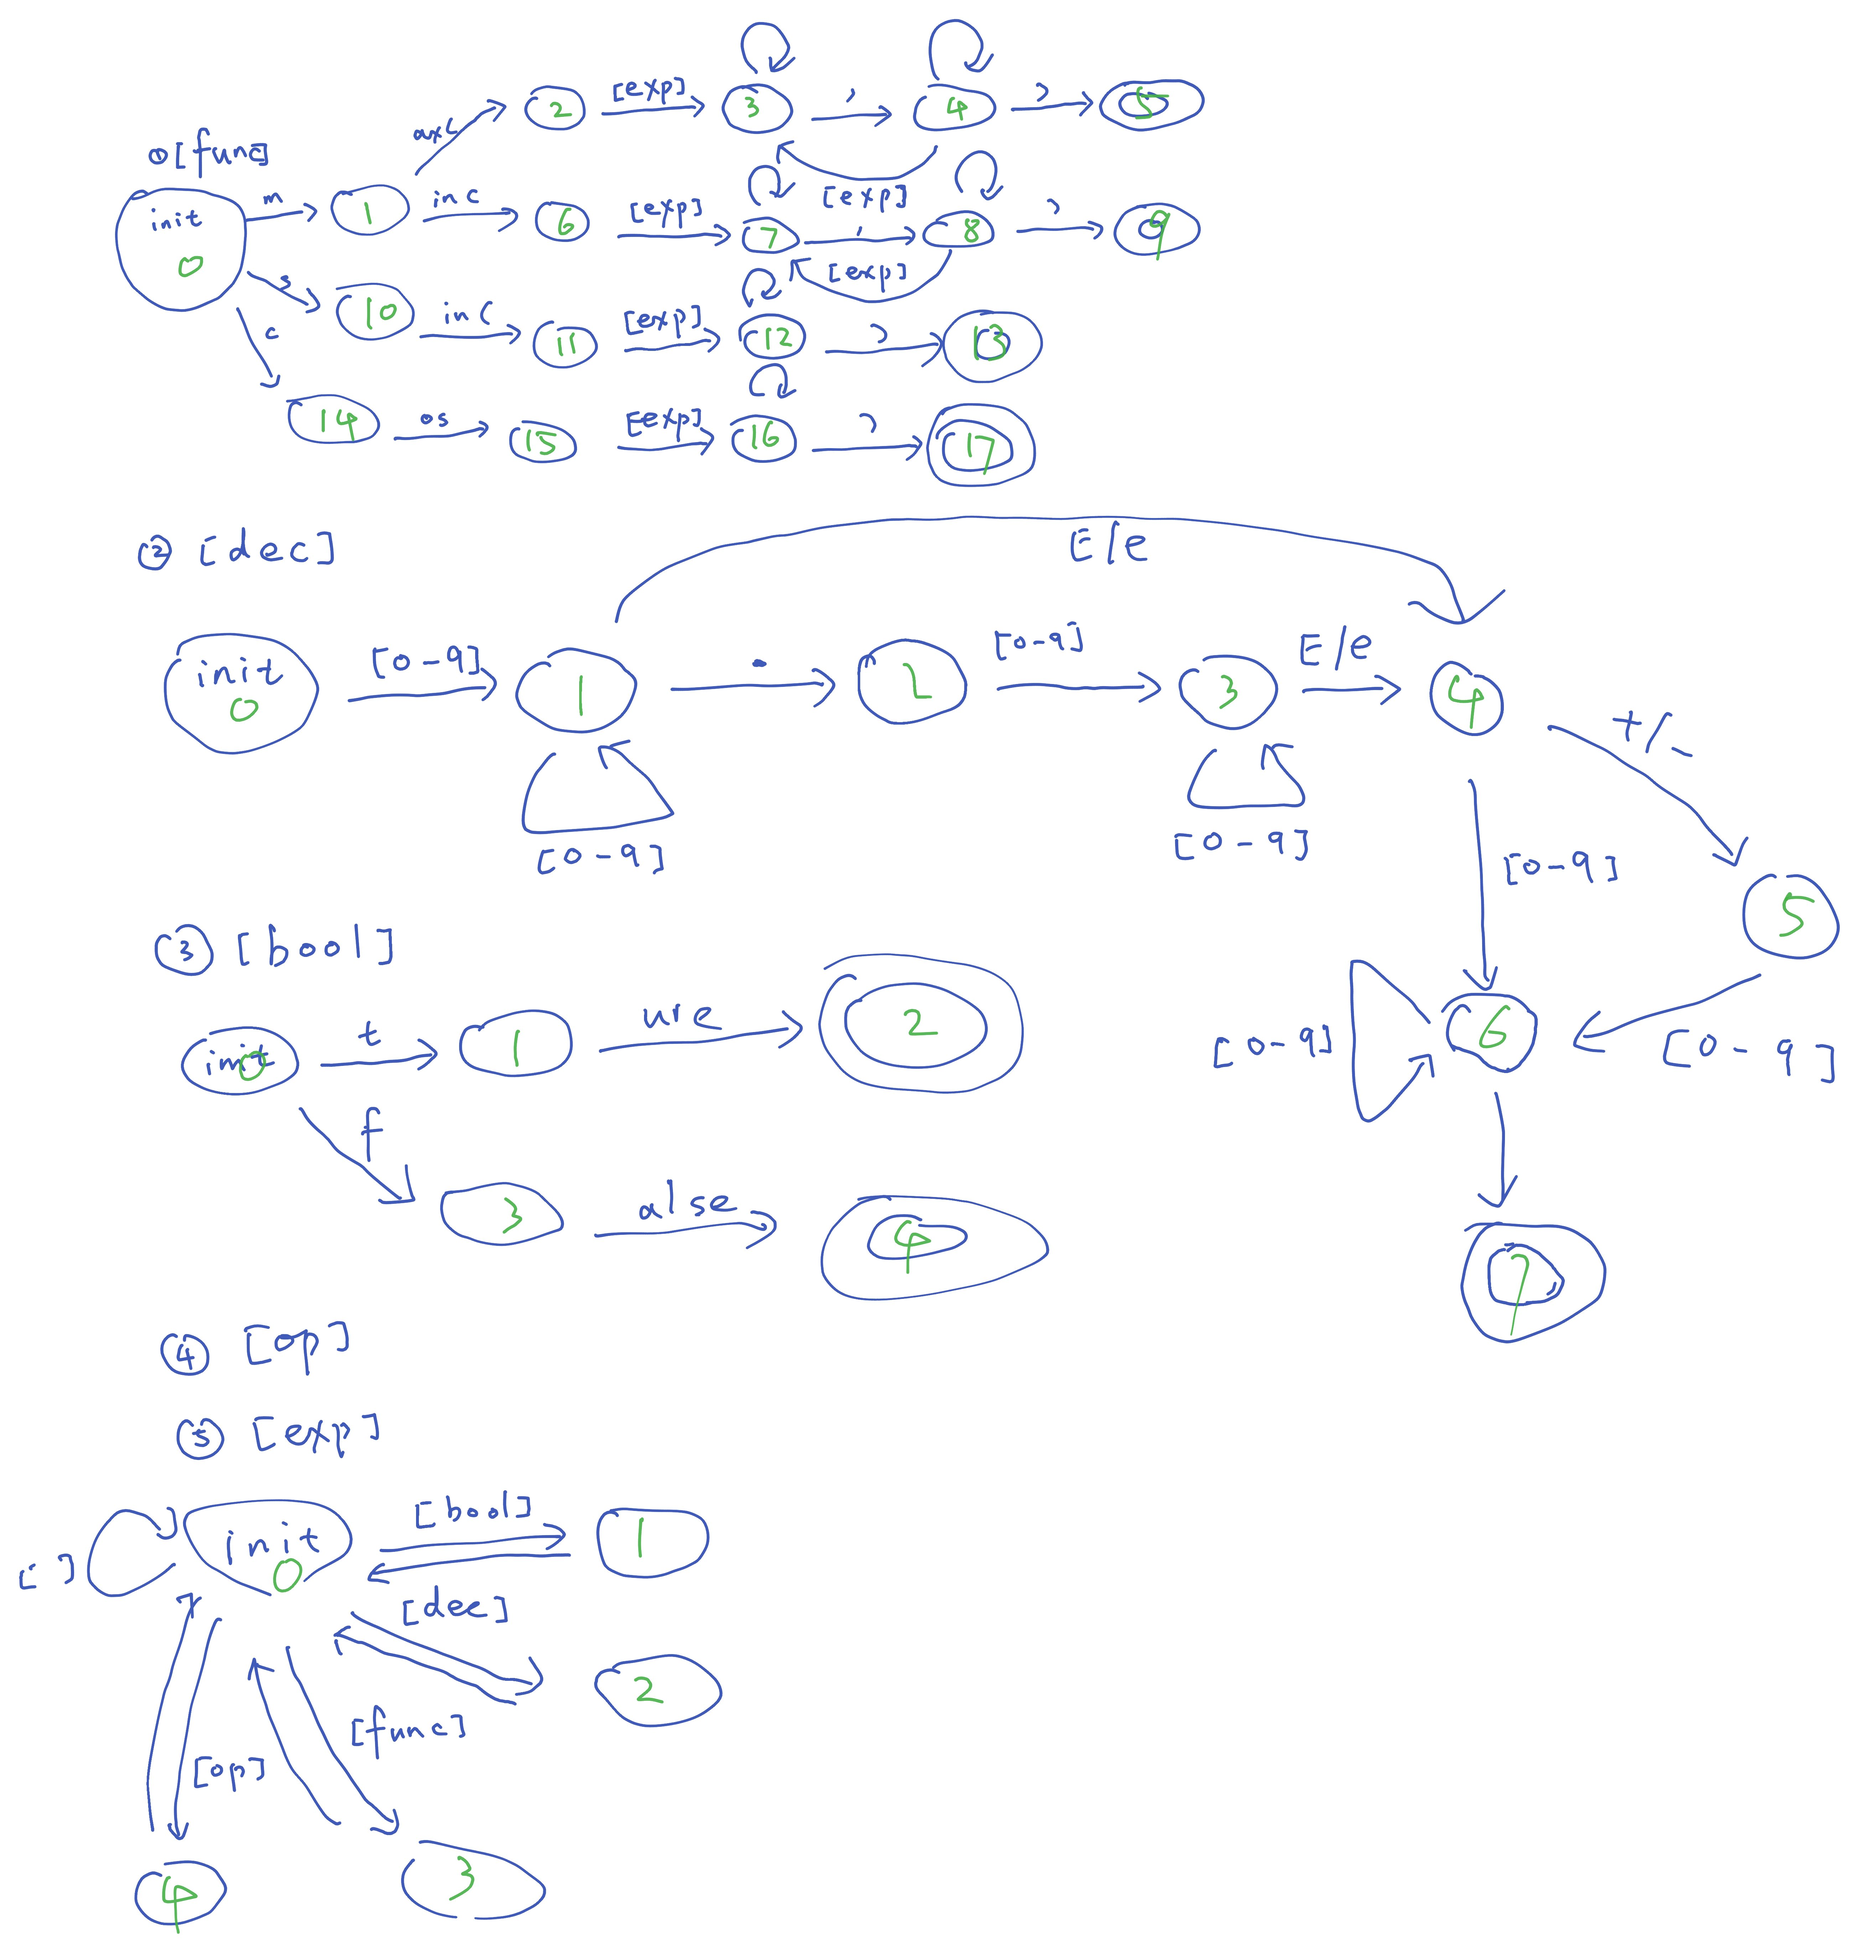
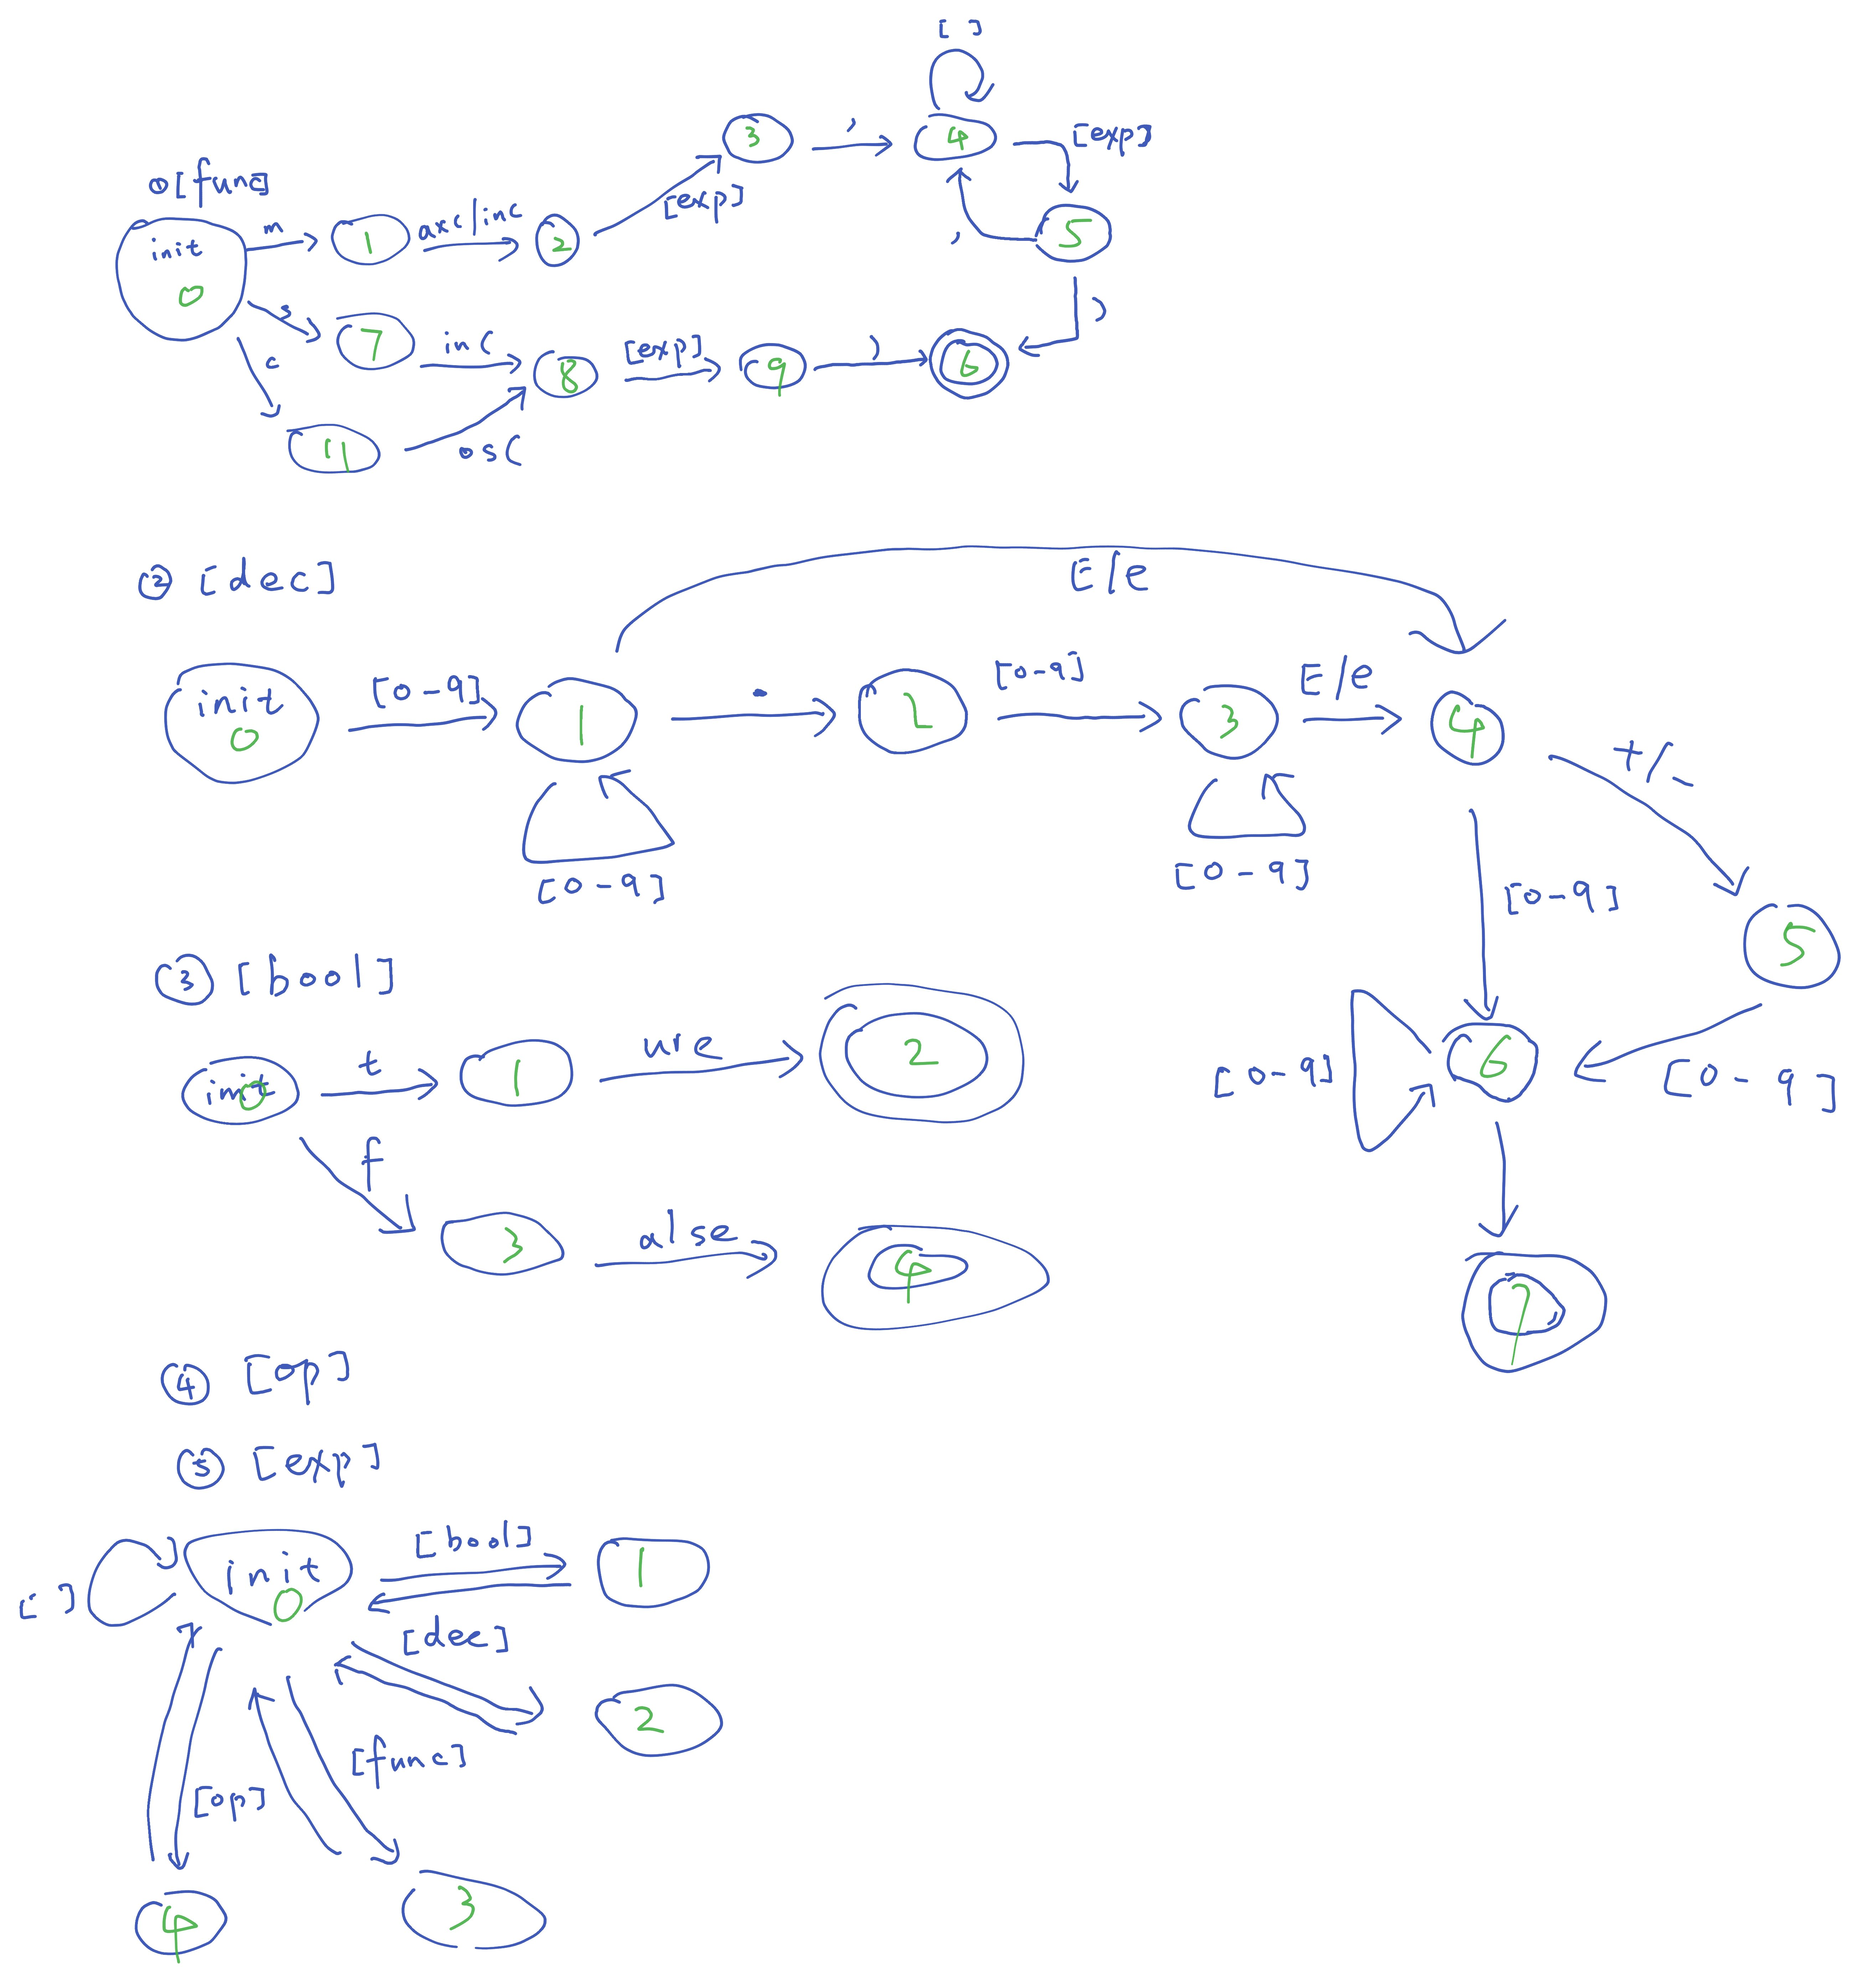
COMP-4 : Sync

diff --git a/COMP-4/src/parser/Scanner.java b/COMP-4/src/parser/Scanner.java
@@ -2,6 +2,7 @@ package parser;
 
 import java.util.*;
 import exceptions.*;
+import jdk.internal.org.jline.reader.impl.DefaultParser.Bracket;
 import parser.Token.TokenType;
 
 public class Scanner {
@@ -22,8 +23,53 @@ public class Scanner {
         return rawString.substring(lookaheadIndex, lookaheadIndex + n);
     }
 
-    private Boolean funcScan() {
+    private Boolean funcState() throws ExpressionException {
+        String tmp = lookhead(1);
+        Character tmpChar = tmp.charAt(0);
+        Integer bracketCounter = 0;
+        switch (stateCode) {
+            case 0:
+                switch (tmpChar) {
+                    case 'm':
+                        stateCode = 1;
+                        lookaheadIndex++;
+                        break;
+                    case 's':
+                        stateCode = 7;
+                        lookaheadIndex++;
+                        break;
+                    case 'c':
+                        stateCode = 11;
+                        lookaheadIndex++;
+                        break;
+                    default:
+                        throw new IllegalIdentifierException("Unknown function identifier at pos %d".formatted(lookaheadIndex));
+                }
+                break;
+            case 1:
+                tmp = lookhead(3);
+                if (tmp.equals("ax(") || tmp.equals("in(")) {
+                    tmp = "m" + tmp;
+                    Token tmpToken= new Token(tmp, TokenType.function);
+                    tokenStream.add(tmpToken);
+                    lookaheadIndex += 3;
+                } else {
+                    throw new IllegalIdentifierException("Unknown function identifier at pos %d".formatted(lookaheadIndex));
+                }
+            case 2:
+                
+            default:
+            throw new IllegalSymbolException("Unknown Exception in Function scaning at pos %d".formatted(lookaheadIndex));
+        }
+    }
 
+    private Boolean funcScan() throws ExpressionException {
+        Boolean flag = true;
+        stateCode = 0;
+        while (flag && lookaheadIndex != rawString.length()) {
+            flag = funcState();
+        }
+        return true;
     }
     private Boolean decState() throws ExpressionException{
         String tmp = lookhead(1);
@@ -64,15 +110,68 @@ public class Scanner {
                     end += 1;
                     lookaheadIndex += 1;
                 } else {
-                    throw new IllegalDecimalException("Illegal char \"%s\" when parsing decimal at pos %d, expected [0-9]/E/e/.".formatted(tmp, lookaheadIndex));
+                    throw new IllegalDecimalException("Illegal char \"%s\" when parsing decimal at pos %d, expected [0-9]".formatted(tmp, lookaheadIndex));
                 }
+            case 3:
+                if (Character.isDigit(tmpChar)) {
+                    stateCode = 3;
+                    end += 1;
+                    lookaheadIndex += 1;
+                } else if (tmpChar == 'E' || tmpChar == 'e') {
+                    stateCode = 4;
+                    end += 1;
+                    lookaheadIndex += 1;
+                } else {
+                    throw new IllegalDecimalException("Illegal char \"%s\" when parsing decimal at pos %d, expected [0-9]/E/e".formatted(tmp, lookaheadIndex));
+                }
+                break;
+            case 4:
+                if (Character.isDigit(tmpChar)) {
+                    stateCode = 6;
+                    end += 1;
+                    lookaheadIndex += 1;
+                } else if (tmpChar == '+' || tmpChar == '-') {
+                    stateCode = 5;
+                    end += 1;
+                    lookaheadIndex += 1;
+                } else {
+                    throw new IllegalDecimalException("Illegal char \"%s\" when parsing decimal at pos %d, expected [0-9]/+/-".formatted(tmp, lookaheadIndex));
+                }
+                break;
+            case 5:
+                if (Character.isDigit(tmpChar)) {
+                    stateCode = 6;
+                    end += 1;
+                    lookaheadIndex += 1;
+                } else {
+                    throw new IllegalDecimalException("Illegal char \"%s\" when parsing decimal at pos %d, expected [0-9]".formatted(tmp, lookaheadIndex));
+                }
+                break;
+            case 6:
+                if (Character.isDigit(tmpChar)) {
+                    stateCode = 6;
+                    end += 1;
+                    lookaheadIndex += 1;
+                } else {
+                    stateCode = 7;
+                }
+                break;
+            case 7:
+                Token tmpToken = new Token(rawString.substring(start, end), TokenType.oprend_dec);
+                tokenStream.add(tmpToken);
+                end += 1;
+                start = end;
+                lookaheadIndex += 1;
+                break;
             default:
-                throw new IllegalDecimalException();
+                throw new IllegalDecimalException("Unknown Exception in Decimal Scanning at pos %d".formatted(lookaheadIndex));
         }
+        return true;
     }
-    private Boolean decScan() {
+    private Boolean decScan() throws ExpressionException {
         Boolean flag = true;
-        while (flag && lookaheadIndex == rawString.length()) {
+        stateCode = 0;
+        while (flag && lookaheadIndex != rawString.length()) {
             flag = decState();
         }
         return true;
@@ -153,7 +252,7 @@ public class Scanner {
 
     public Boolean scan() throws ExpressionException {
         Boolean flag = true;
-        while (flag && lookaheadIndex == rawString.length()) {
+        while (flag && lookaheadIndex != rawString.length()) {
             flag = exprScan();
         }
         return true;
